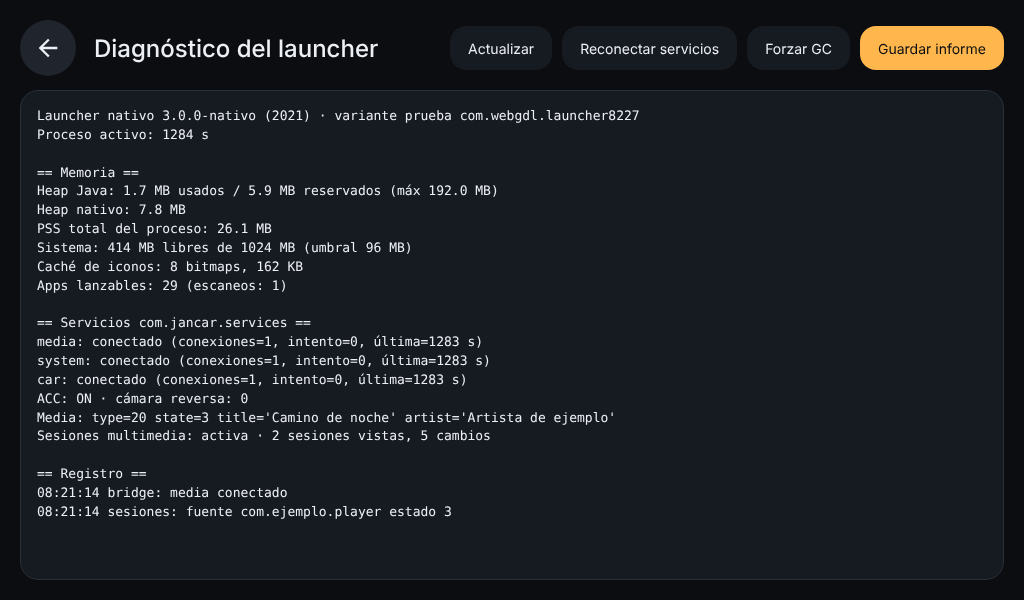
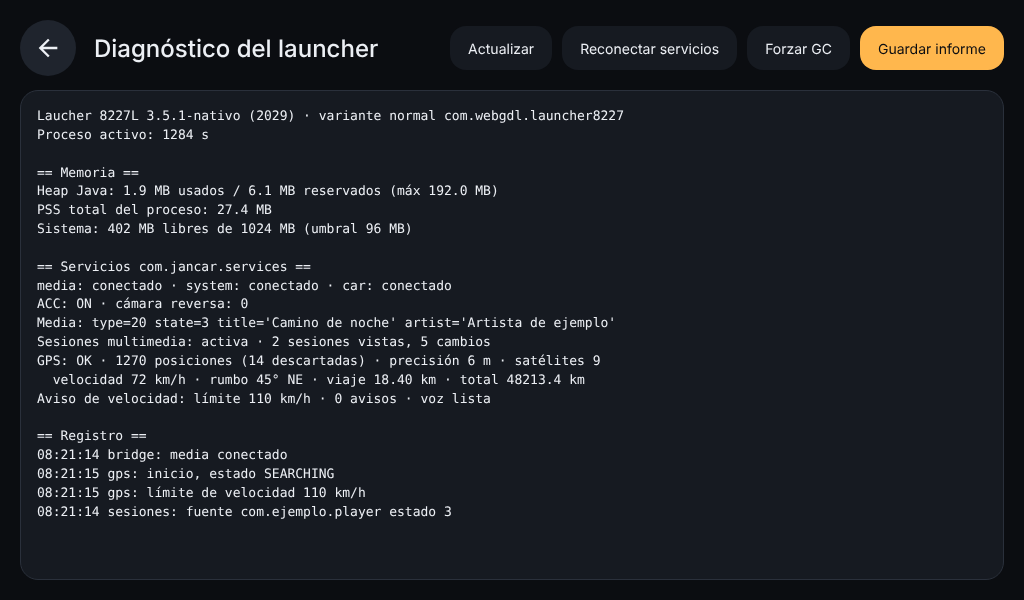
3.5.1: versión definitiva «Laucher 8227L»
- APK renombrados: Laucher-8227L.apk y Laucher-8227L-reemplazo.apk.
- La app se muestra como «Laucher 8227L»; variante de compilación «normal».
- Release estable (no preliminar) y pruebas antes de publicar.
- README, CHANGELOG y captura de Diagnóstico actualizados.

Claude-Session: https://claude.ai/code/session_011vyBQ6bBFkKsMFyk998ioB

Changed region(s): [[0.0312, 0.33, 0.5938, 0.84], [0.0625, 0.18, 0.625, 0.21], [0.3438, 0.45, 0.4375, 0.48]]

diff --git a/docs/preview/render.py b/docs/preview/render.py
@@ -156,27 +156,27 @@ def apps_panel():
 
 
 def diag():
-    txt = """Launcher nativo 3.0.0-nativo (2021) · variante prueba com.webgdl.launcher8227
+    txt = """Laucher 8227L 3.5.1-nativo (2029) · variante normal com.webgdl.launcher8227
 Proceso activo: 1284 s
 
 == Memoria ==
-Heap Java: 1.7 MB usados / 5.9 MB reservados (máx 192.0 MB)
-Heap nativo: 7.8 MB
-PSS total del proceso: 26.1 MB
-Sistema: 414 MB libres de 1024 MB (umbral 96 MB)
-Caché de iconos: 8 bitmaps, 162 KB
-Apps lanzables: 29 (escaneos: 1)
+Heap Java: 1.9 MB usados / 6.1 MB reservados (máx 192.0 MB)
+PSS total del proceso: 27.4 MB
+Sistema: 402 MB libres de 1024 MB (umbral 96 MB)
 
 == Servicios com.jancar.services ==
-media: conectado (conexiones=1, intento=0, última=1283 s)
-system: conectado (conexiones=1, intento=0, última=1283 s)
-car: conectado (conexiones=1, intento=0, última=1283 s)
+media: conectado · system: conectado · car: conectado
 ACC: ON · cámara reversa: 0
 Media: type=20 state=3 title='Camino de noche' artist='Artista de ejemplo'
 Sesiones multimedia: activa · 2 sesiones vistas, 5 cambios
+GPS: OK · 1270 posiciones (14 descartadas) · precisión 6 m · satélites 9
+  velocidad 72 km/h · rumbo 45° NE · viaje 18.40 km · total 48213.4 km
+Aviso de velocidad: límite 110 km/h · 0 avisos · voz lista
 
 == Registro ==
 08:21:14 bridge: media conectado
+08:21:15 gps: inicio, estado SEARCHING
+08:21:15 gps: límite de velocidad 110 km/h
 08:21:14 sesiones: fuente com.ejemplo.player estado 3"""
     btn = lambda t, a=False: (f'<div style="height:44px;padding:0 18px;margin-left:10px;border-radius:16px;display:flex;align-items:center;'
                               f'font-size:14px;background:{C["accent"] if a else C["surface"]};color:{C["bg"] if a else C["text"]}">{t}</div>')

diff --git a/src/com/android/launcher3/BuildInfo.java b/src/com/android/launcher3/BuildInfo.java
@@ -9,7 +9,7 @@ import android.content.pm.PackageManager;
  *
  * Variantes (las decide build.sh):
  *  - reemplazo: paquete com.android.launcher3, uid system, persistente; sustituye al launcher de fábrica.
- *  - prueba:    paquete com.webgdl.launcher8227, app normal; convive con el de fábrica.
+ *  - normal:    paquete com.webgdl.launcher8227, app normal; convive con el de fábrica.
  */
 public final class BuildInfo {
     /** Paquete del launcher de fábrica; solo con él se heredan los privilegios de sistema. */
@@ -38,5 +38,5 @@ public final class BuildInfo {
         return replacement;
     }
 
-    public static String variant(Context ctx) { return isReplacement(ctx) ? "reemplazo" : "prueba"; }
+    public static String variant(Context ctx) { return isReplacement(ctx) ? "reemplazo" : "normal"; }
 }

diff --git a/src/com/android/launcher3/DiagnosticsActivity.java b/src/com/android/launcher3/DiagnosticsActivity.java
@@ -38,7 +38,7 @@ public final class DiagnosticsActivity extends Activity {
         LauncherApp app = LauncherApp.get();
         JancarBridge bridge = app.bridge();
         StringBuilder sb = new StringBuilder(4096);
-        sb.append("Launcher nativo ").append(BuildInfo.version(this)).append(" · variante ").append(BuildInfo.variant(this)).append(' ').append(getPackageName()).append('\n');
+        sb.append("Laucher 8227L ").append(BuildInfo.version(this)).append(" · variante ").append(BuildInfo.variant(this)).append(' ').append(getPackageName()).append('\n');
         sb.append("Proceso activo: ").append(app.uptimeMs() / 1000).append(" s\n\n");
 
         sb.append("== Memoria ==\n");

diff --git a/src/com/android/launcher3/media/MediaMemory.java b/src/com/android/launcher3/media/MediaMemory.java
@@ -24,7 +24,7 @@ import com.android.launcher3.jancar.MediaState;
  * de arrancar, y el servicio abre la última app de música con el extra {@code boot_memory=true}
  * (RadilloPlayerWave y la música de fábrica restauran entonces su cola y siguen sonando). Si nuestro
  * launcher es la pantalla de inicio, eso ya no ocurre; y el servicio parece comprobar que la actividad
- * superior sea {@code com.android.launcher3}, así que la variante de prueba abre la app ella misma.
+ * superior sea {@code com.android.launcher3}, así que la variante normal abre la app ella misma.
  *
  * Vive en el proceso (no en la Activity) para seguir el estado aunque otra app esté en primer plano.
  */

diff --git a/README.md b/README.md
@@ -1,4 +1,4 @@
-# Launcher nativo para autoestéreos Android «Jancar» (alps 8227L · JCAC10003)
+# Laucher 8227L: launcher nativo para autoestéreos Android «Jancar» (alps 8227L · JCAC10003)
 
 [![Compilar APK](https://github.com/web-gdl/Laucher_8227L_JCAC10003/actions/workflows/main.yml/badge.svg)](https://github.com/web-gdl/Laucher_8227L_JCAC10003/actions/workflows/main.yml)
 [![Licencia: dominio público](https://img.shields.io/badge/licencia-dominio%20p%C3%BAblico-brightgreen)](LICENSE)
@@ -30,19 +30,20 @@ del estéreo (música, volante, ACC, cámara de reversa) sin necesitar ningún S
 
 ## Estado del proyecto
 
-**Versión actual: 3.5.0** (noviembre de 2026): velocímetro, brújula, odómetro y aviso de límite de velocidad, ver [`CHANGELOG.md`](CHANGELOG.md).
-Pendiente de probar en el equipo; la última versión probada es la **3.4.0**. Probado por el autor en su JCAC10003 con la variante de prueba:
+**Versión estable: 3.5.1** (noviembre de 2026): versión definitiva con velocímetro, brújula, odómetro y aviso de límite de velocidad,
+ver [`CHANGELOG.md`](CHANGELOG.md). En uso diario por el autor en su JCAC10003 con la variante normal (`Laucher-8227L.apk`):
 
-- ✅ Inicio nocturno con la música al centro, dock de favoritos y panel de aplicaciones sin recuadros.
+- ✅ Inicio nocturno con música e instrumentos, dock de favoritos y panel de aplicaciones sin recuadros.
 - ✅ Widget de música con apps de terceros (RadilloPlayerWave) y fondo con los colores de la portada.
 - ✅ La música vuelve al encender el auto (el estéreo despierta, no reinicia).
-- ⏳ Instrumentos del GPS (3.5.0): la lógica de distancia y del aviso pasa pruebas con recorridos simulados; falta probarla en carretera.
+- ✅ Velocímetro, brújula, odómetro y aviso de límite de velocidad con el GPS del estéreo (además, la lógica de distancia y del aviso
+  pasa pruebas automáticas con recorridos simulados en cada cambio).
 - ⏳ Variante de reemplazo (`com.android.launcher3`): compila y es la misma base, pero el autor no la ha instalado.
 - ⏳ Consumo de memoria: el informe de Diagnóstico ya muestra el desglose; queda medirlo en el equipo para recortar lo que haga falta.
 
 **Límites conocidos**
 
-- Al apagar el auto, el servicio del estéreo cierra la variante de prueba (no está en su lista de paquetes protegidos);
+- Al apagar el auto, el servicio del estéreo cierra la variante normal (no está en su lista de paquetes protegidos);
   al encender se vuelve a abrir sola como pantalla de inicio. La de reemplazo no tiene ese problema.
 - Los códigos del servicio `com.jancar.services` salen del firmware de este equipo; otro firmware podría cambiarlos.
 - El estéreo no lee los datos del auto (no tiene OBD): velocidad, rumbo y kilómetros salen de **su GPS**. El «Total» cuenta
@@ -57,33 +58,36 @@ El historial completo está en [`CHANGELOG.md`](CHANGELOG.md). El diseño se eli
 
 | Archivo | Para qué sirve |
 |---|---|
-| **[launcher-prueba.apk](https://github.com/web-gdl/Laucher_8227L_JCAC10003/releases/latest/download/launcher-prueba.apk)** | **Empieza por aquí.** Se instala como una app normal y convive con el launcher de fábrica. Se quita como cualquier app. |
-| [launcher-reemplazo.apk](https://github.com/web-gdl/Laucher_8227L_JCAC10003/releases/latest/download/launcher-reemplazo.apk) | Sustituye al launcher de fábrica (necesita `adb`). Hereda privilegios de sistema. Solo para quien sepa revertirlo. |
+| **[Laucher-8227L.apk](https://github.com/web-gdl/Laucher_8227L_JCAC10003/releases/latest/download/Laucher-8227L.apk)** | **La versión para instalar.** Se instala como una app normal y convive con el launcher de fábrica. Se quita como cualquier app. |
+| [Laucher-8227L-reemplazo.apk](https://github.com/web-gdl/Laucher_8227L_JCAC10003/releases/latest/download/Laucher-8227L-reemplazo.apk) | Sustituye al launcher de fábrica (necesita `adb`). Hereda privilegios de sistema. Solo para quien sepa revertirlo. |
 | [SHA256SUMS.txt](https://github.com/web-gdl/Laucher_8227L_JCAC10003/releases/latest/download/SHA256SUMS.txt) | Sumas de verificación de los APK. |
 
 Todas las versiones: [Releases](https://github.com/web-gdl/Laucher_8227L_JCAC10003/releases).
 Cada APK se compila en GitHub Actions a partir de este código; puedes compilarlo tú mismo (ver más abajo).
 
-## Instalación de la versión de prueba
+## Instalación
 
-1. Copia `launcher-prueba.apk` al estéreo (memoria USB) y ábrelo con un explorador de archivos; permite «instalar apps desconocidas» si lo pide.
-   También sirve `adb install launcher-prueba.apk`.
-2. Aparece como **«Inicio (prueba)»**. Pulsa el botón **Inicio** del estéreo y, cuando pregunte qué launcher usar, elige *Inicio (prueba)* → **«Solo una vez»**.
-3. Con «Solo una vez», la próxima vez que pulses Inicio el estéreo te vuelve a preguntar, así que siempre puedes elegir el launcher de fábrica. Para quitarlo, desinstálalo como cualquier app.
+1. Copia `Laucher-8227L.apk` al estéreo (memoria USB) y ábrelo con un explorador de archivos; permite «instalar apps desconocidas» si lo pide.
+   También sirve `adb install -r Laucher-8227L.apk`. Si ya tenías una versión anterior («Inicio (prueba)»), se instala encima y conserva tus favoritos.
+2. Aparece como **«Laucher 8227L»**. Pulsa el botón **Inicio** del estéreo y, cuando pregunte qué launcher usar, elige *Laucher 8227L* →
+   **«Siempre»** para dejarlo como pantalla de inicio (o «Solo una vez» si quieres seguir eligiendo).
+3. La primera vez pide el **permiso de ubicación** (para el velocímetro y el odómetro). Después toca *Total* → *Ajustar total* y escribe los km del tablero,
+   y toca el velocímetro para fijar tu límite de velocidad.
+4. Para volver al de fábrica: Ajustes → Aplicaciones → Laucher 8227L → *Borrar valores predeterminados*, o desinstálalo como cualquier app.
 
-La versión de prueba no toca nada del sistema: no es persistente, no usa el usuario de sistema y no pide a la «app de memoria» que arranque con el coche.
+Esta variante no toca nada del sistema: no es persistente, no usa el usuario de sistema y no pide a la «app de memoria» que arranque con el coche.
 
 ## Instalación de la versión de reemplazo (avanzado)
 
 Usa el mismo paquete (`com.android.launcher3`) y la firma de plataforma que el de fábrica, así que se instala **como actualización**:
 
 ```
-adb install -r launcher-reemplazo.apk
+adb install -r Laucher-8227L-reemplazo.apk
 adb uninstall com.android.launcher3     # revertir (vuelve el launcher de fábrica si estaba en /system)
 ```
 
 Con ella el estéreo vuelve a abrir la última app de música unos segundos después de arrancar, igual que el launcher de fábrica.
-Si no estás seguro de poder revertirla, **no la instales**: usa la de prueba.
+Si no estás seguro de poder revertirla, **no la instales**: usa `Laucher-8227L.apk`.
 
 ## Qué hace
 
@@ -95,7 +99,7 @@ Si no estás seguro de poder revertirla, **no la instales**: usa la de prueba.
     El número se pone rojo. «Desactivar» lo quita.
   - **Odómetro**: tócalo para *Reiniciar viaje a 0*, *Ajustar viaje* o *Ajustar total* (al número del tablero del auto). Atajos: pulsación larga en Viaje para reiniciarlo, en Total para ajustarlo.
   - Se descartan posiciones imprecisas, el «baile» del GPS con el auto parado y los saltos imposibles. Se mide solo con el auto encendido; una notificación
-    silenciosa «Odómetro» mantiene el GPS activo aunque tengas otra app delante. La variante de prueba pide el permiso de ubicación una vez.
+    silenciosa «Odómetro» mantiene el GPS activo aunque tengas otra app delante. La variante normal pide el permiso de ubicación una vez.
 - **Música** con título, artista, portada redonda, fondo con sus colores, progreso, tiempos y anterior / play‑pausa / siguiente. Funciona con las fuentes de fábrica (música, radio,
   vídeo, Bluetooth) y con **apps de terceros**: para estas obtiene el paquete, el estado y la posición de la sesión multimedia de Android, de modo que
   al tocar la portada o el título se abre la app que está sonando. Pulsación larga para elegir la app de música por defecto.
@@ -150,8 +154,8 @@ Sin Gradle ni Android Studio. Necesitas JDK 17+, Python 3, `curl` y `unzip`.
 
 ```
 ./tools/get-tools.sh              # android.jar 27, aapt2, jadx/D8/apksig y claves de plataforma AOSP
-./build.sh --variant prueba       # out/launcher-prueba.apk
-./build.sh --variant reemplazo    # out/launcher-nativo.apk
+./build.sh --variant normal       # out/Laucher-8227L.apk
+./build.sh --variant reemplazo    # out/Laucher-8227L-reemplazo.apk
 ./build.sh --variant ambas
 ```
 
@@ -209,6 +213,6 @@ It replaces the factory launcher with a single-activity, ~80 KB, ~26 MB-PSS app 
 through its own binder client. Third-party music apps are supported through Android media sessions. Since 3.5 it also shows a GPS speedometer (green→yellow→red),
 a compass and trip/total odometers, with a spoken warning when you exceed a speed limit you set (tap the speedometer).
 
-**Download:** [`launcher-prueba.apk`](https://github.com/web-gdl/Laucher_8227L_JCAC10003/releases/latest/download/launcher-prueba.apk) (installs like a normal app, safe to try) ·
-[`launcher-reemplazo.apk`](https://github.com/web-gdl/Laucher_8227L_JCAC10003/releases/latest/download/launcher-reemplazo.apk) (replaces the factory launcher, needs `adb`).
-Tested only on one JCAC10003. APKs are signed with the public AOSP platform test key (see *Seguridad*). Public domain (Unlicense); provided as is, with no warranty.
+**Download (stable 3.5.1):** [`Laucher-8227L.apk`](https://github.com/web-gdl/Laucher_8227L_JCAC10003/releases/latest/download/Laucher-8227L.apk) (installs like a normal app; the one to use) ·
+[`Laucher-8227L-reemplazo.apk`](https://github.com/web-gdl/Laucher_8227L_JCAC10003/releases/latest/download/Laucher-8227L-reemplazo.apk) (replaces the factory launcher, needs `adb`).
+In daily use on one JCAC10003. APKs are signed with the public AOSP platform test key (see *Seguridad*). Public domain (Unlicense); provided as is, with no warranty.

diff --git a/CHANGELOG.md b/CHANGELOG.md
@@ -2,6 +2,18 @@
 
 Todas las versiones se publican en [Releases](https://github.com/web-gdl/Laucher_8227L_JCAC10003/releases) con los dos APK y sus sumas.
 
+## 3.5.1: versión definitiva «Laucher 8227L»
+
+Publicada como versión estable (deja de ser «de prueba»).
+
+- Los APK se llaman **`Laucher-8227L.apk`** (la versión para instalar) y **`Laucher-8227L-reemplazo.apk`**.
+  Enlaces fijos: `releases/latest/download/Laucher-8227L.apk` y `.../Laucher-8227L-reemplazo.apk`.
+- La app aparece como **«Laucher 8227L»** (antes «Inicio (prueba)»). Mismo paquete `com.webgdl.launcher8227`: se instala encima
+  de la anterior y conserva favoritos, odómetro y límite.
+- La variante de compilación se llama `normal` (`./build.sh --variant normal`; `prueba` sigue aceptándose).
+- Release marcada como estable y última; las pruebas automáticas también corren antes de publicar.
+- README, Diagnóstico e imágenes actualizados.
+
 ## 3.5.0: velocidad, brújula, odómetro y límite de velocidad
 
 Pendiente de probar en el equipo.
